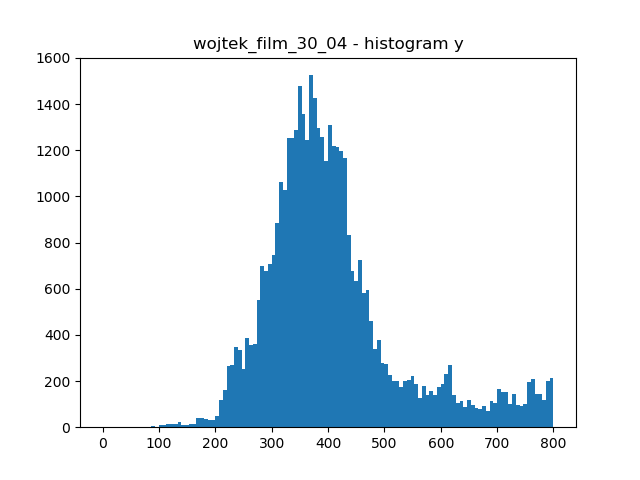
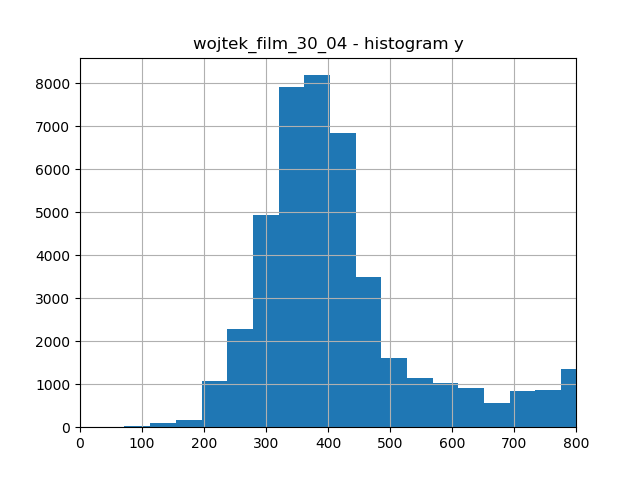
Updating histograms #2
Able to produce two kinds of histograms. Unable to understand usage of bins. Which kind do you prefer?

diff --git a/output_kalibracja_2_lepsza/seriale_po_kalibracji_2/statistics.py b/output_kalibracja_2_lepsza/seriale_po_kalibracji_2/statistics.py
@@ -9,5 +9,9 @@ values=[float(line.split('\t')[2].strip('\n')) for line in alllines[1:90000]]
 a=array.array('f', values)
 plt.hist(a, range=(0, 800), bins='auto')
 plt.title(filename[:-4]+' - histogram y')
-
-plt.savefig(filename[:-4])
+plt.savefig(filename[:-4]+'_with_histrange')
+plt.clf()
+plt.hist(a, bins='auto')
+plt.xlim(0, 800)
+plt.grid(b=True)
+plt.savefig(filename[:-4]+'_with_xlim')
